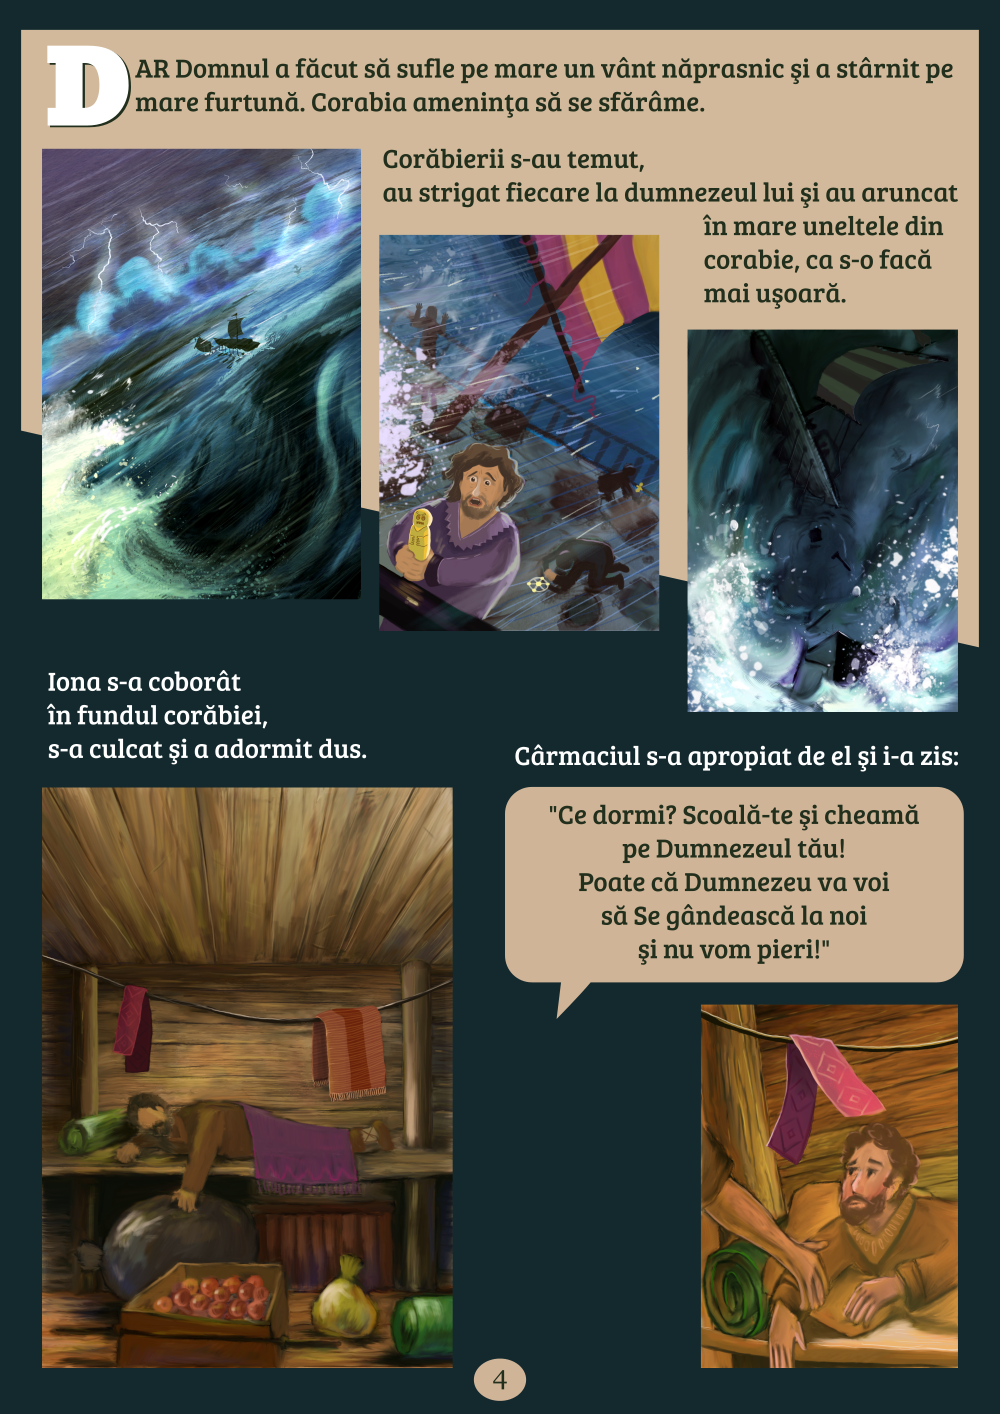
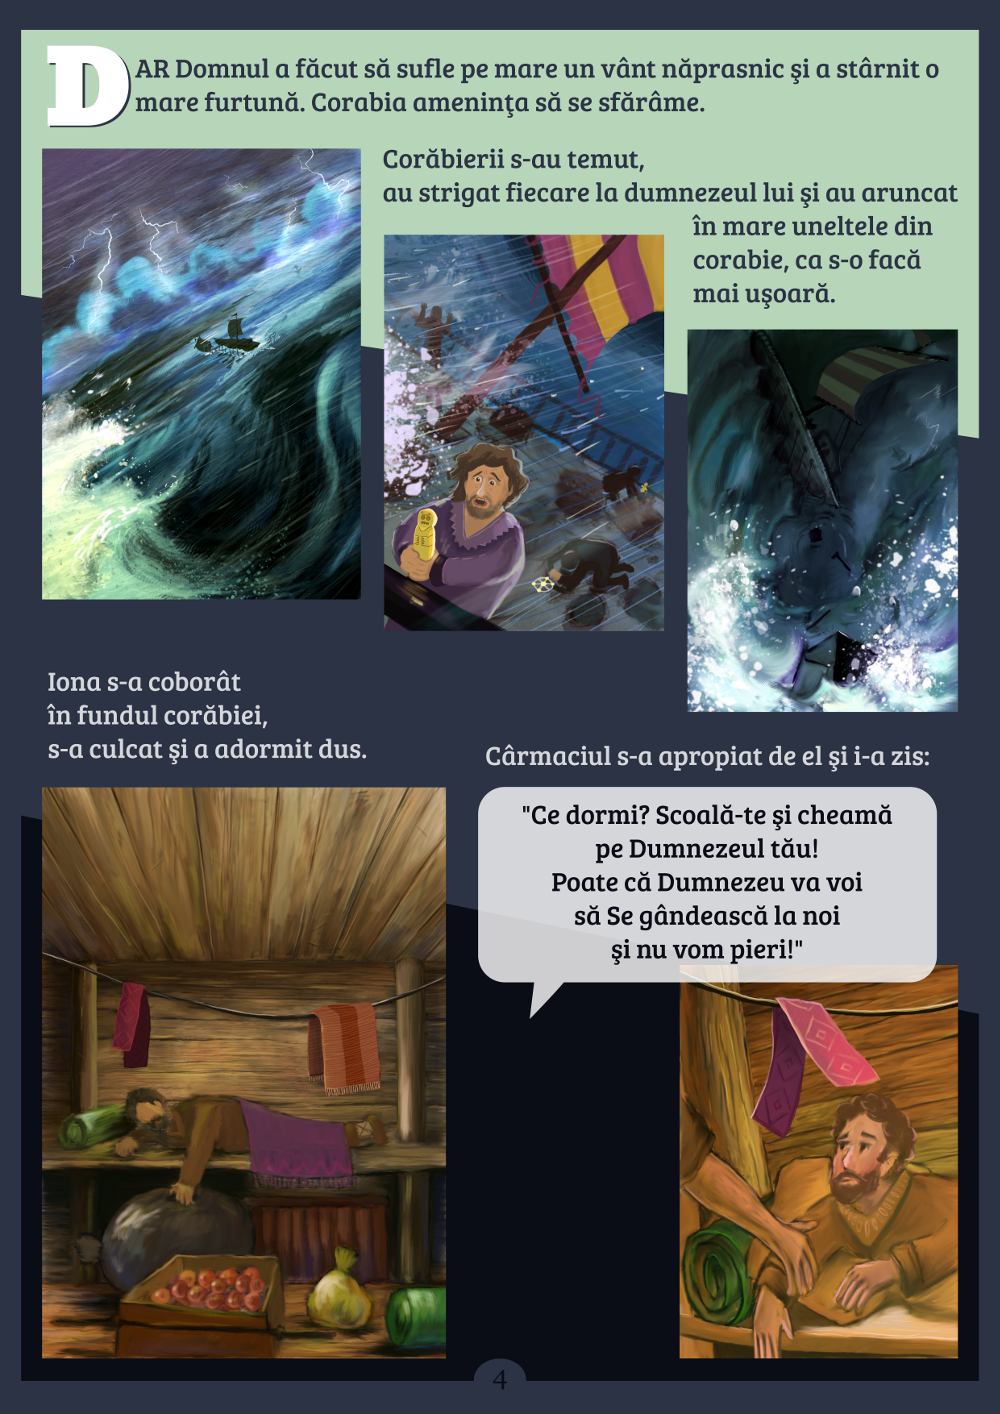
Update 04.

diff --git a/script.js b/script.js
@@ -4,7 +4,7 @@ angular.module('galleryApp', [])
     gallery.language = "ro";
     gallery.work_start_date = new Date(2016,05,20);
 
-    gallery.worked_hours = 163.5;  // EDIT HERE
+    gallery.worked_hours = 164;  // EDIT HERE
 
     gallery.get_global_progress = function() {
       var index;
@@ -161,7 +161,7 @@ angular.module('galleryApp', [])
       {
         id: 4,
         img: '04.png',
-        done: 70,
+        done: 71,
         text: {
           ro: "1:4. Dar Domnul a făcut să sufle pe mare un vânt năprasnic şi a stârnit o mare furtună. Corabia ameninţa să se sfărâme. 1:5A. Corăbierii s-au temut, au strigat fiecare la dumnezeul lui 1:5B. şi au aruncat în mare uneltele din corabie, ca s-o facă mai uşoară. 1:5C. Iona s-a coborât în fundul corăbiei, s-a culcat şi a adormit dus. 1:6. Cârmaciul s-a apropiat de el şi i-a zis: \"Ce dormi? Scoală-te şi cheamă pe Dumnezeul tău! Poate că Dumnezeu va voi să Se gândească la noi şi nu vom pieri!\"",
           en: "1:4. But the LORD sent out a great wind into the sea, and there was a mighty tempest in the sea, so that the ship was like to be broken. 1:5A. Then the mariners were afraid, and cried every man unto his god, 1:5B. and cast forth the wares that were in the ship into the sea, to lighten it of them. 1:5C. But Jonah was gone down into the sides of the ship; and he lay, and was fast asleep. 1:6. So the shipmaster came to him, and said unto him, What meanest thou, O sleeper? arise, call upon thy God, if so be that God will think upon us, that we perish not."
